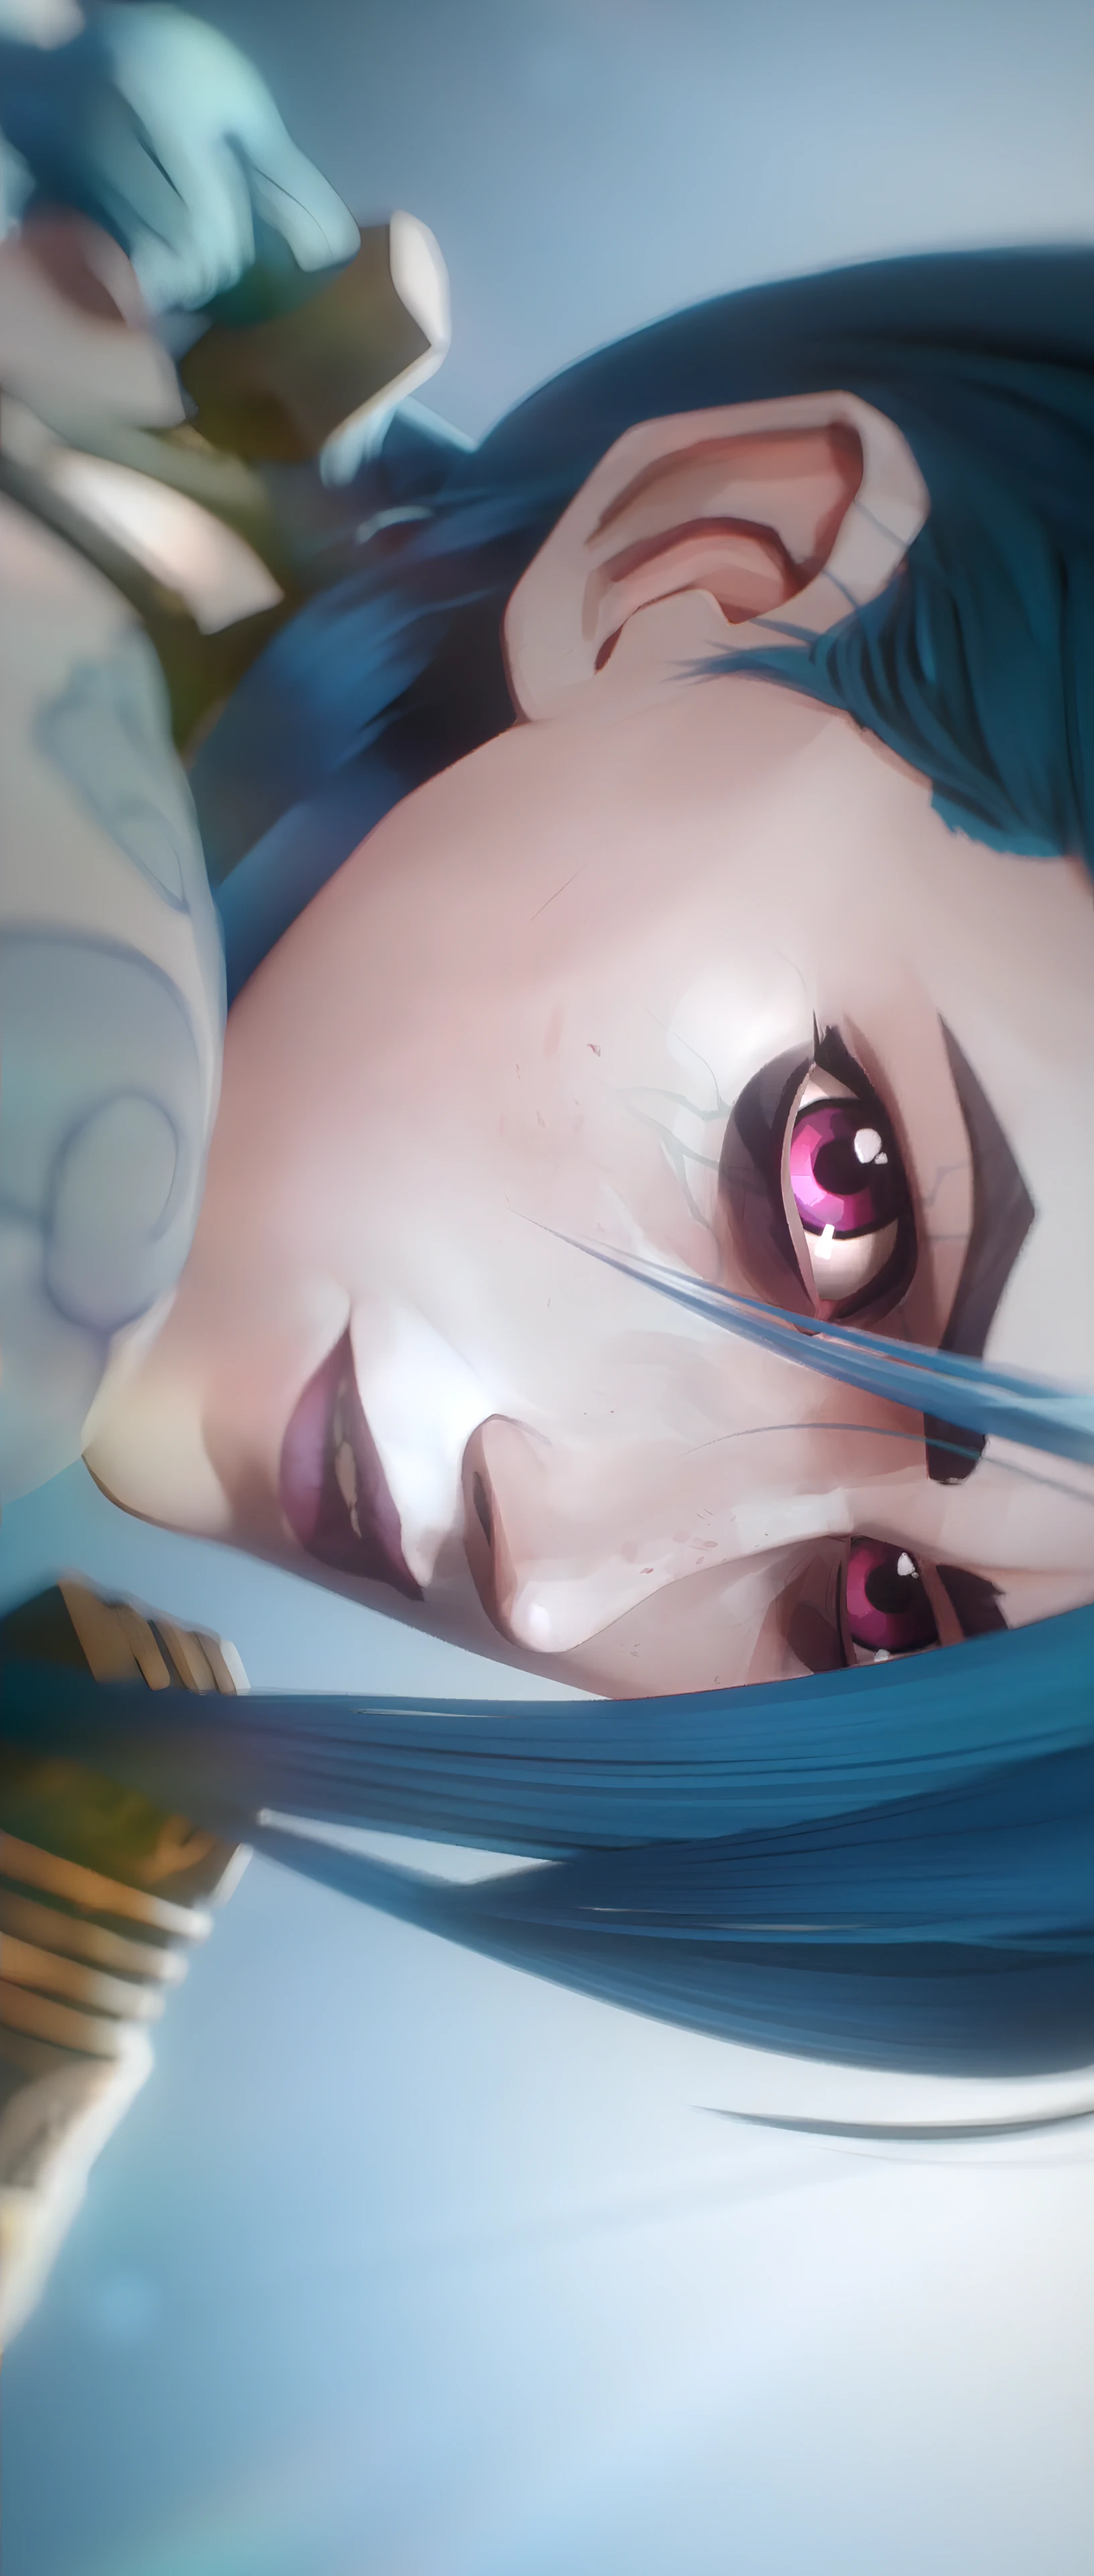
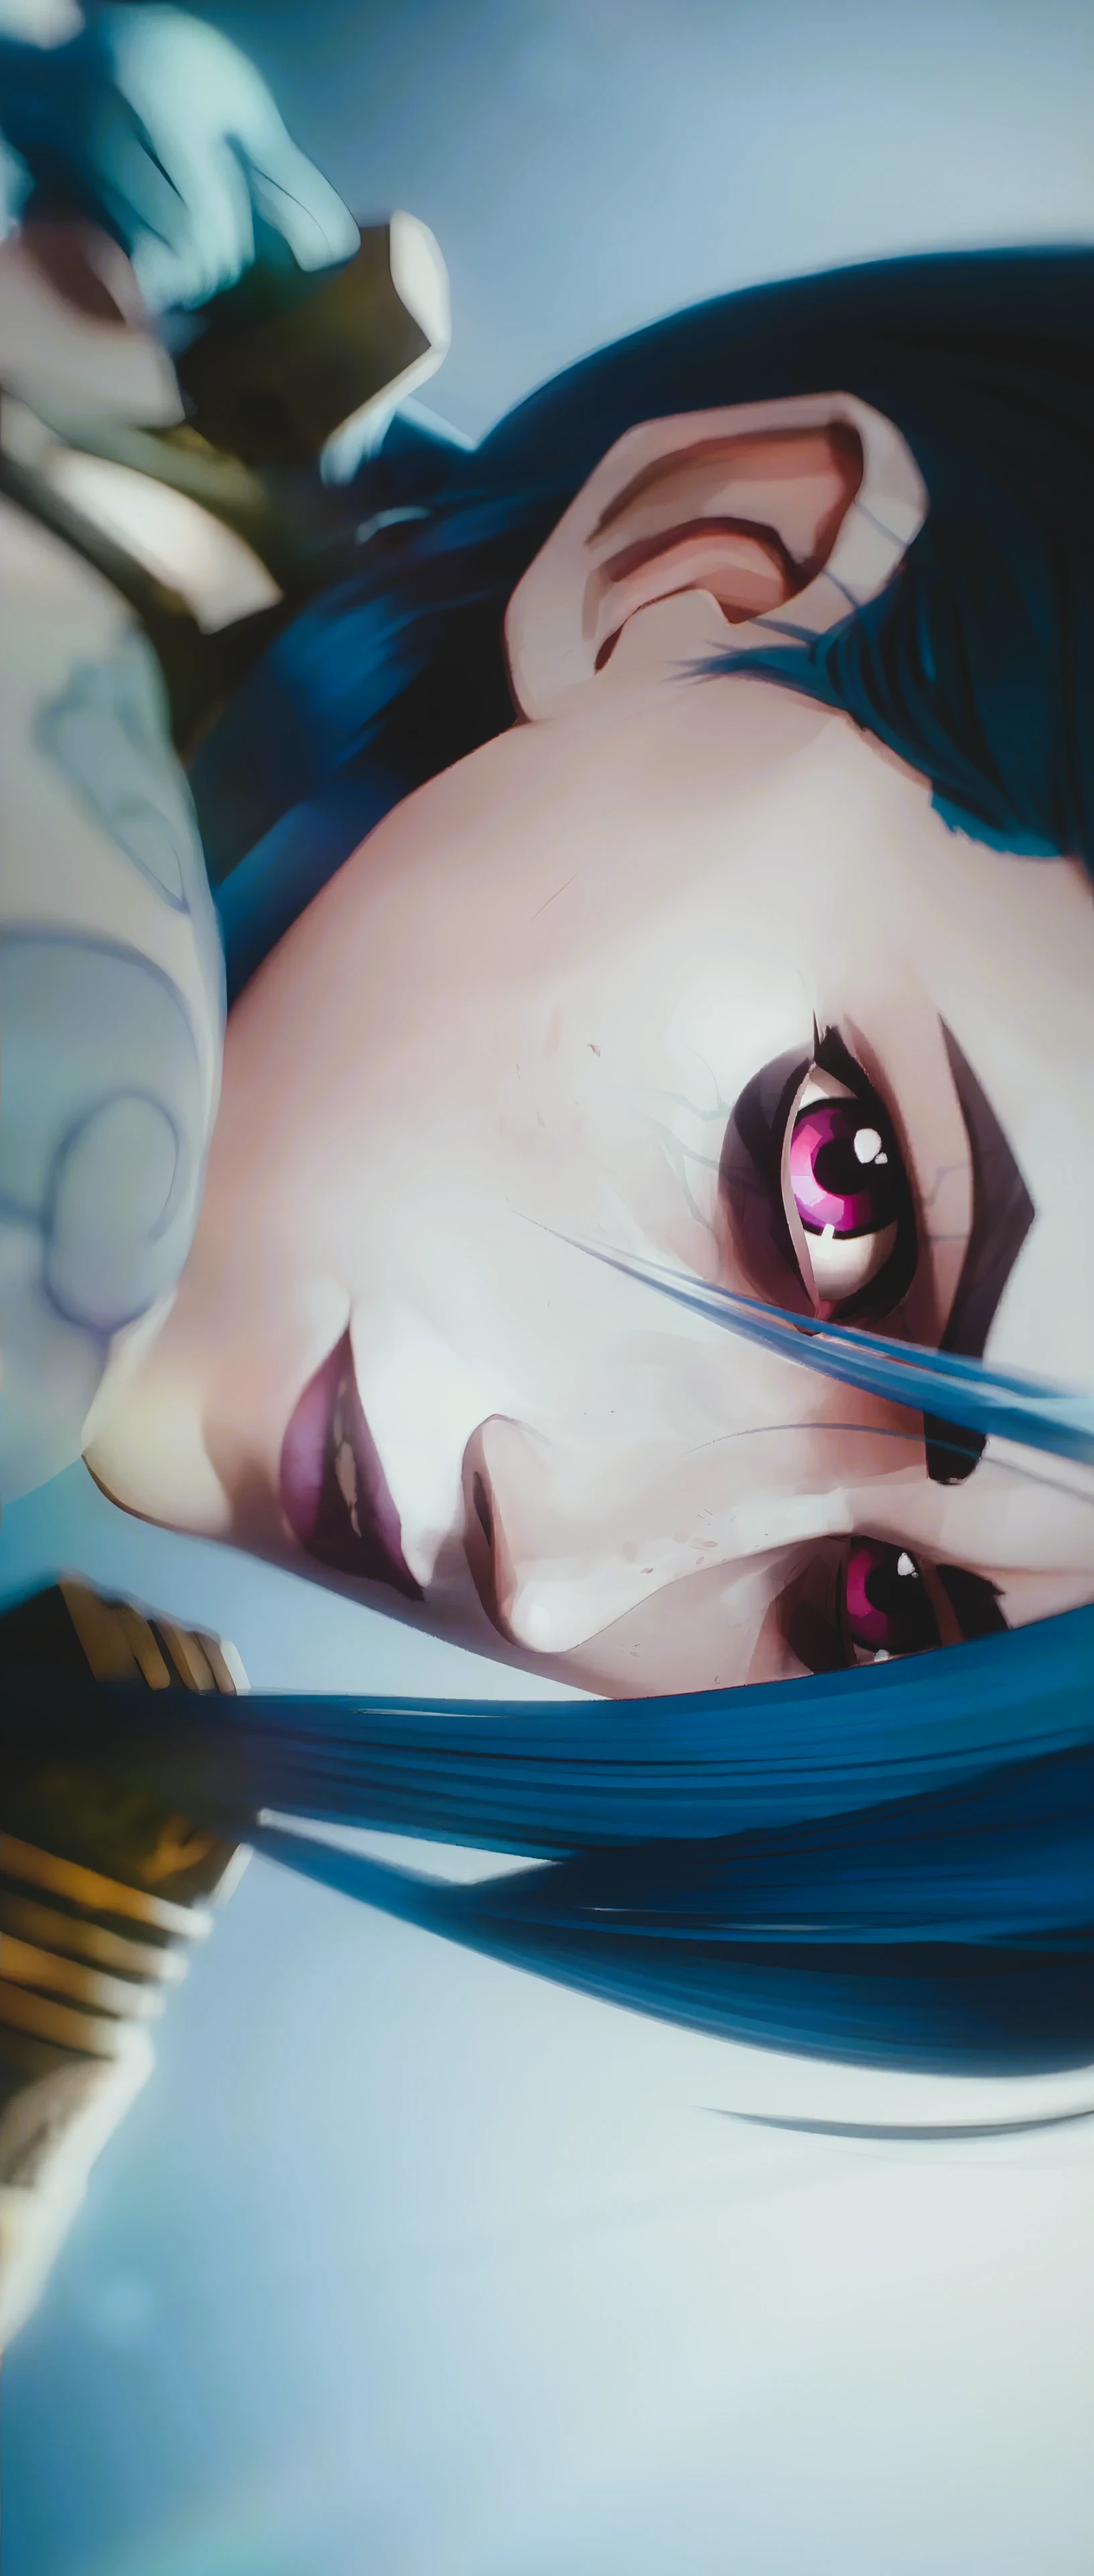
Characters page - Change jinx-5 image

diff --git a/data/Characters.ts b/data/Characters.ts
@@ -1923,7 +1923,7 @@ export const characters = {
     secondaryColor: "#4671AC",
     icon: "/images/arcane_zaun/zaun_characters/jinx/character-page/icon.webp",
     heroImage:
-      "/images/arcane_zaun/zaun_characters/jinx/character-page/jinx-1.webp",
+      "/images/arcane_zaun/zaun_characters/jinx/character-page/jinx-5.png",
     name: "Jinx",
     lastName: "",
     description:
@@ -2365,7 +2365,7 @@ export const characters = {
     secondaryColor: "#4F7942",
     icon: "/images/arcane_zaun/zaun_characters/ekko/character-page/icon.webp",
     heroImage:
-      "/images/arcane_zaun/zaun_characters/ekko/character-page/ekko-1.webp",
+      "/images/arcane_zaun/zaun_characters/ekko/character-page/ekko-5.webp",
     name: "Ekko",
     lastName: "",
     description:
